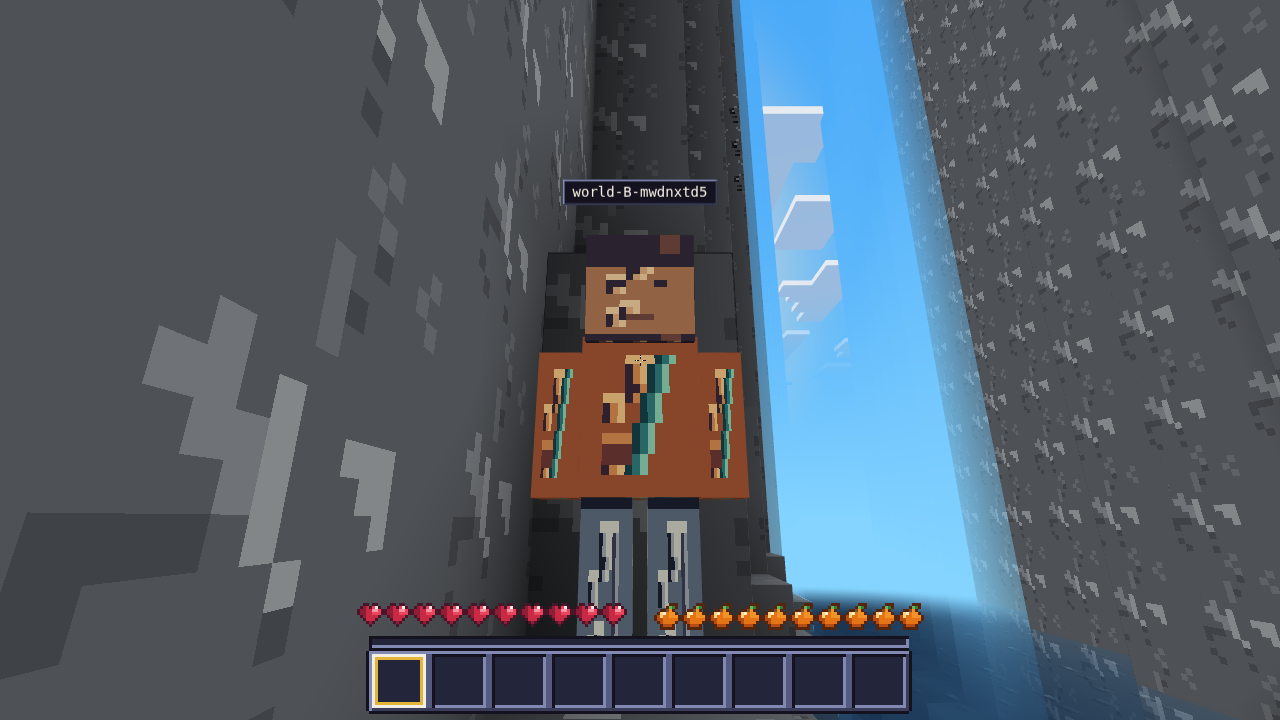
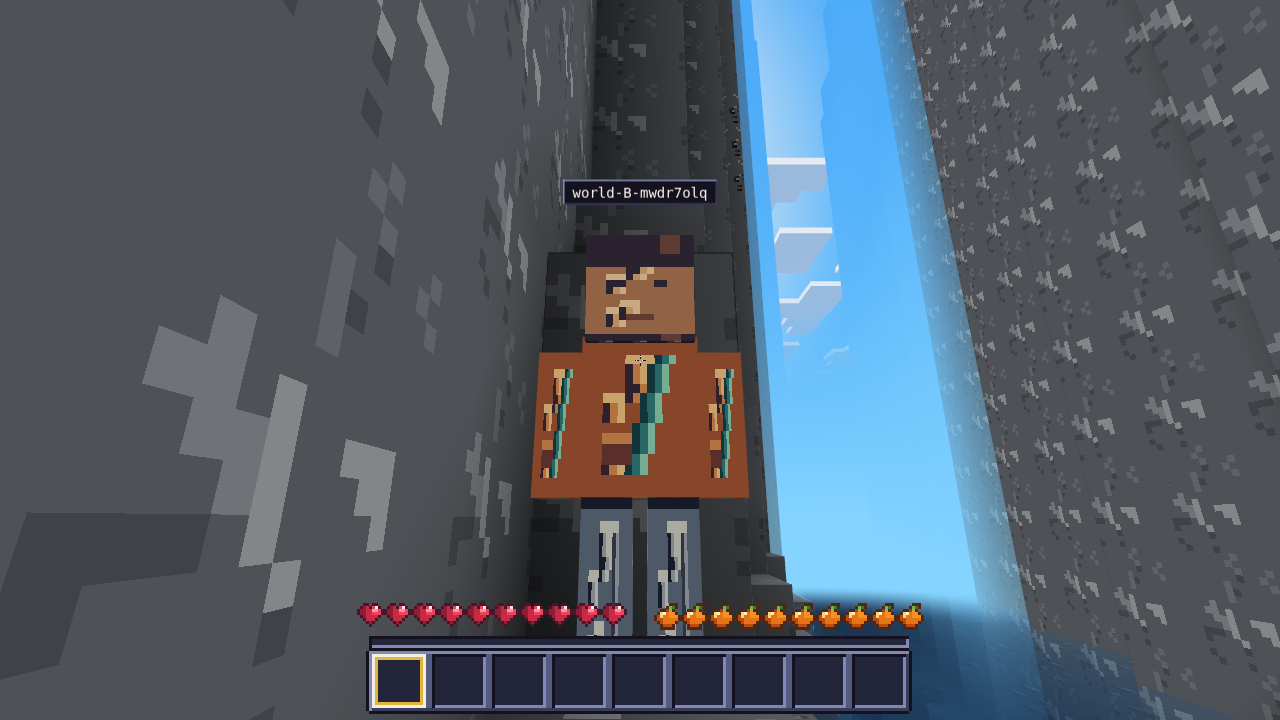
M21c: record final verification and reviewed two-player screenshot

Changed region(s): [[0.5625, 0.0, 0.6562, 0.4278], [0.4375, 0.2444, 0.5625, 0.275], [0.5938, 0.4583, 0.625, 0.4889]]

diff --git a/progress/M21c.md b/progress/M21c.md
@@ -6,11 +6,12 @@ Full verify: PR CI
 
 ## Verification
 
-- Focused M21c browser run: **6 passed (5.3m)**. The delayed 30-second route covered **36.77626729201737 blocks**, with **0 prediction corrections** and measured RTT **200.40000000037253 ms**. Position changed in the next frame; A observed B's block edit in **32 ms**.
-- Intermediate `MILESTONE=M21 npm run verify:quick`: typecheck, lint, placeholders and unit passed (**146 files / 1480 tests**). The earlier browser stage exposed a movement setup failure that was corrected before the focused run above. A final quick run remains to be recorded after the completed implementation.
-- M21b server regressions plus the M21c roster test: **2 files / 26 tests passed**. The final roster integration also checks that authoritative physics continues between input packets.
-- Affected M04, M05, M06, M07, M09, M10, M17b, M18 and M20 browser regressions: **89 passed / 3 failed (41.6m)**. The recorded failures are M04:66 pump budget (52.5 ms), M17b:543 autosave budget, and M18b:92 landing-predicate timeout in unchanged code. Per the owner override, these container results were not retried or treated as blockers; PR CI decides. All 92 tests were attempted.
-- `npm ci` completed. Playwright's required system-dependency attempt failed root authentication; bundled Chromium installed under `/tmp/m21c-browsers`. The M21b browser handshake check passed **2 tests (10.0s)** with the existing system libraries.
+- Final `MILESTONE=M21 npm run verify:quick`: **typecheck ✓ · lint ✓ · placeholders ✓ · unit 147 files / 1485 tests passed · e2e 8 passed (4.9m)**. No skipped or stubbed tests. Browser fixtures recorded no console errors, uncaught errors, failed requests or WebGL errors.
+- The final delayed 30-second walk covered **38.3 blocks**, with **0 prediction corrections**, **152.5 ms RTT**, and next-frame movement from `[0.5, 65, 0.5]` to `[0.6, 65, 0.5]`. A observed B's block edit in **289 ms**, below the unchanged 500 ms limit.
+- Affected M04, M05, M06, M07, M09, M10, M17b, M18 and M20 browser regressions: **89 passed / 3 failed (41.6m)**. Failures: M04:66 pump budget (52.5 ms), M17b:543 autosave budget, and M18b:92 landing-predicate timeout in unchanged code. Per the owner override, these container results were not retried or treated as blockers; PR CI decides. All 92 tests were attempted.
+- M21b server regressions and M21c integration coverage are included in the final passing unit suite. The M21c integration checks roster join/periodic/leave broadcasts, continuous authoritative physics between packets, and explicit BlockAction edits without implicit held-input mining.
+- `npm ci` completed. Playwright's system-dependency attempt failed root authentication; bundled Chromium installed under `/tmp/m21c-browsers`. The initial M21b browser check passed **2 tests (10.0s)** with the existing libraries.
+- Remaining publication steps: owner approval at the publish gate, push to the existing branch/PR, green PR CI, then record CI totals and set Status/title to verified. No M21c scope item remains unattempted or omitted.
 
 ## Acceptance criteria owned
 
@@ -22,7 +23,7 @@ Full verify: PR CI
 
 ## Screenshots (docs/screenshots/M21c/)
 
-- `m21-two-players.png`: VIEWED. From A's view, B's front-facing box model has a dark cap, orange-brown tunic with a green accent, and gray legs. A readable name tag is above its head. Tall gray stone walls flank a blue sky opening; hearts, hunger and the empty hotbar are visible below.
+- `m21-two-players.png`: VIEWED. From A's view, B's front-facing box model has a dark cap, orange-brown tunic with a teal accent, and gray legs. The readable `world-B-mwdr7olq` tag is above its head. Tall gray stone walls flank a blue sky opening and water; hearts, hunger and the empty hotbar are visible below. No magenta missing-texture region is visible.
 
 ## What was built
 
@@ -31,6 +32,7 @@ Full verify: PR CI
 - Timestamped remote entity interpolation, the existing player model, DOM name tags, protocol-v3 roster and Tab list.
 - Networked owned inventory operations, safe chat, unavailable multiplayer commands and disconnect recovery.
 - Five owned acceptance tests, menu/single-player recovery coverage, unit/integration regressions and the reviewed screenshot.
+- Shared-code changes serve remote presentation: Player checkpoint methods add no fields; PlayerController has a simulation-free remote spawn; Streamer has explicit server unload; PlayerModelRenderer accepts a structural remote source. Chat/UiManager changes are event-only. Server changes add the roster, fresh portal entity baselines and exclusive validated block edits for network actors.
 
 ## Decisions
 
@@ -48,7 +50,7 @@ Full verify: PR CI
 
 - `src/game/net/inventory.ts` queues window-zero intent against server revisions; snapshots own slot/cursor values. Extend the protocol and server validation for container ownership, reach, revisions, crafting and close behavior.
 - `UiManager.inventoryOnly` prevents local container/crafting mutations during a remote session. Replace the relevant guards when real server windows exist; do not open local chest/kiln/workbench implementations on remote terrain.
-- Preserve ordered input-before-BlockAction handling, continuous authoritative player physics and ordered correction messages, portal sequence continuity and fresh destination entity baselines.
+- Preserve ordered input-before-BlockAction handling, continuous authoritative player physics, portal sequence continuity and fresh destination entity baselines. Send one PlayerCorrection after every server tick: the client authoritative movement checkpoint advances once per message, so these messages must not be coalesced. Network block edits use BlockAction exclusively; do not re-enable implicit held-input mining/placing when adding container actions.
 
 ### M22 — culling and batching
 
